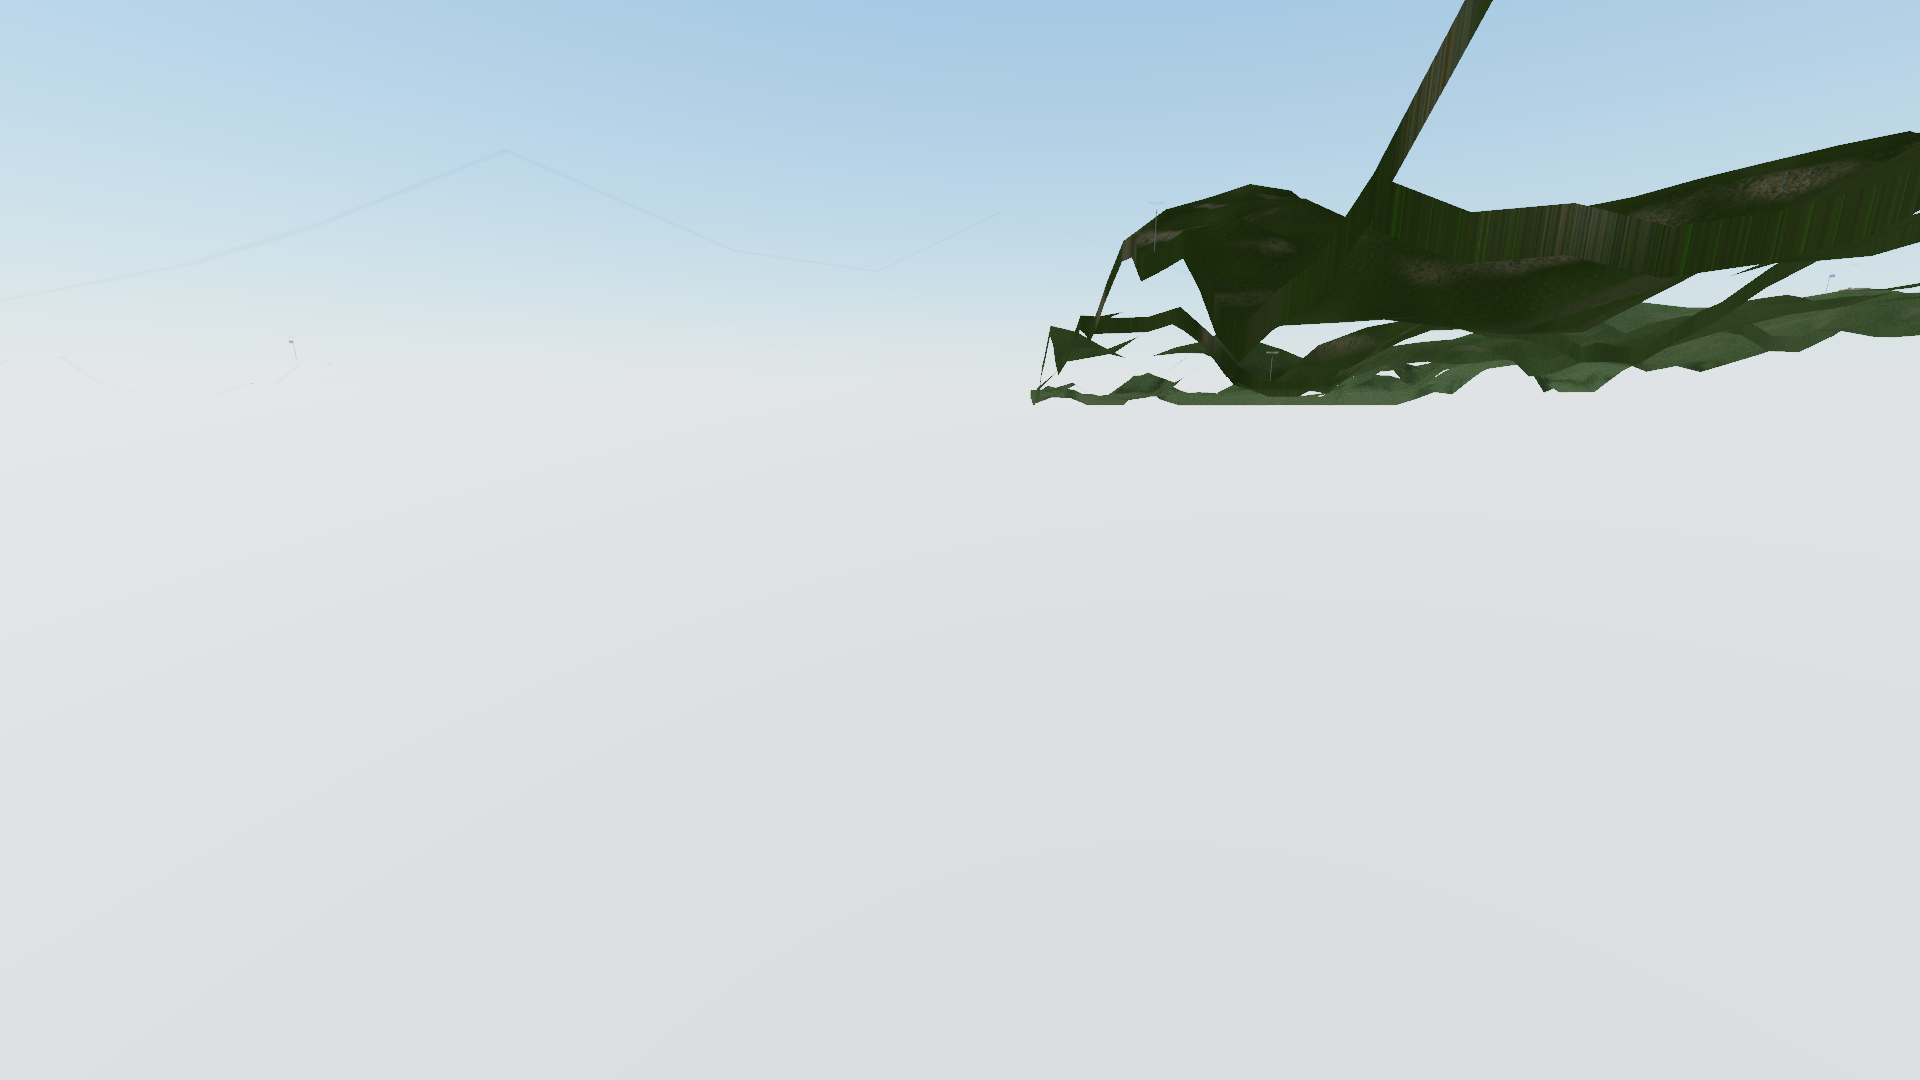
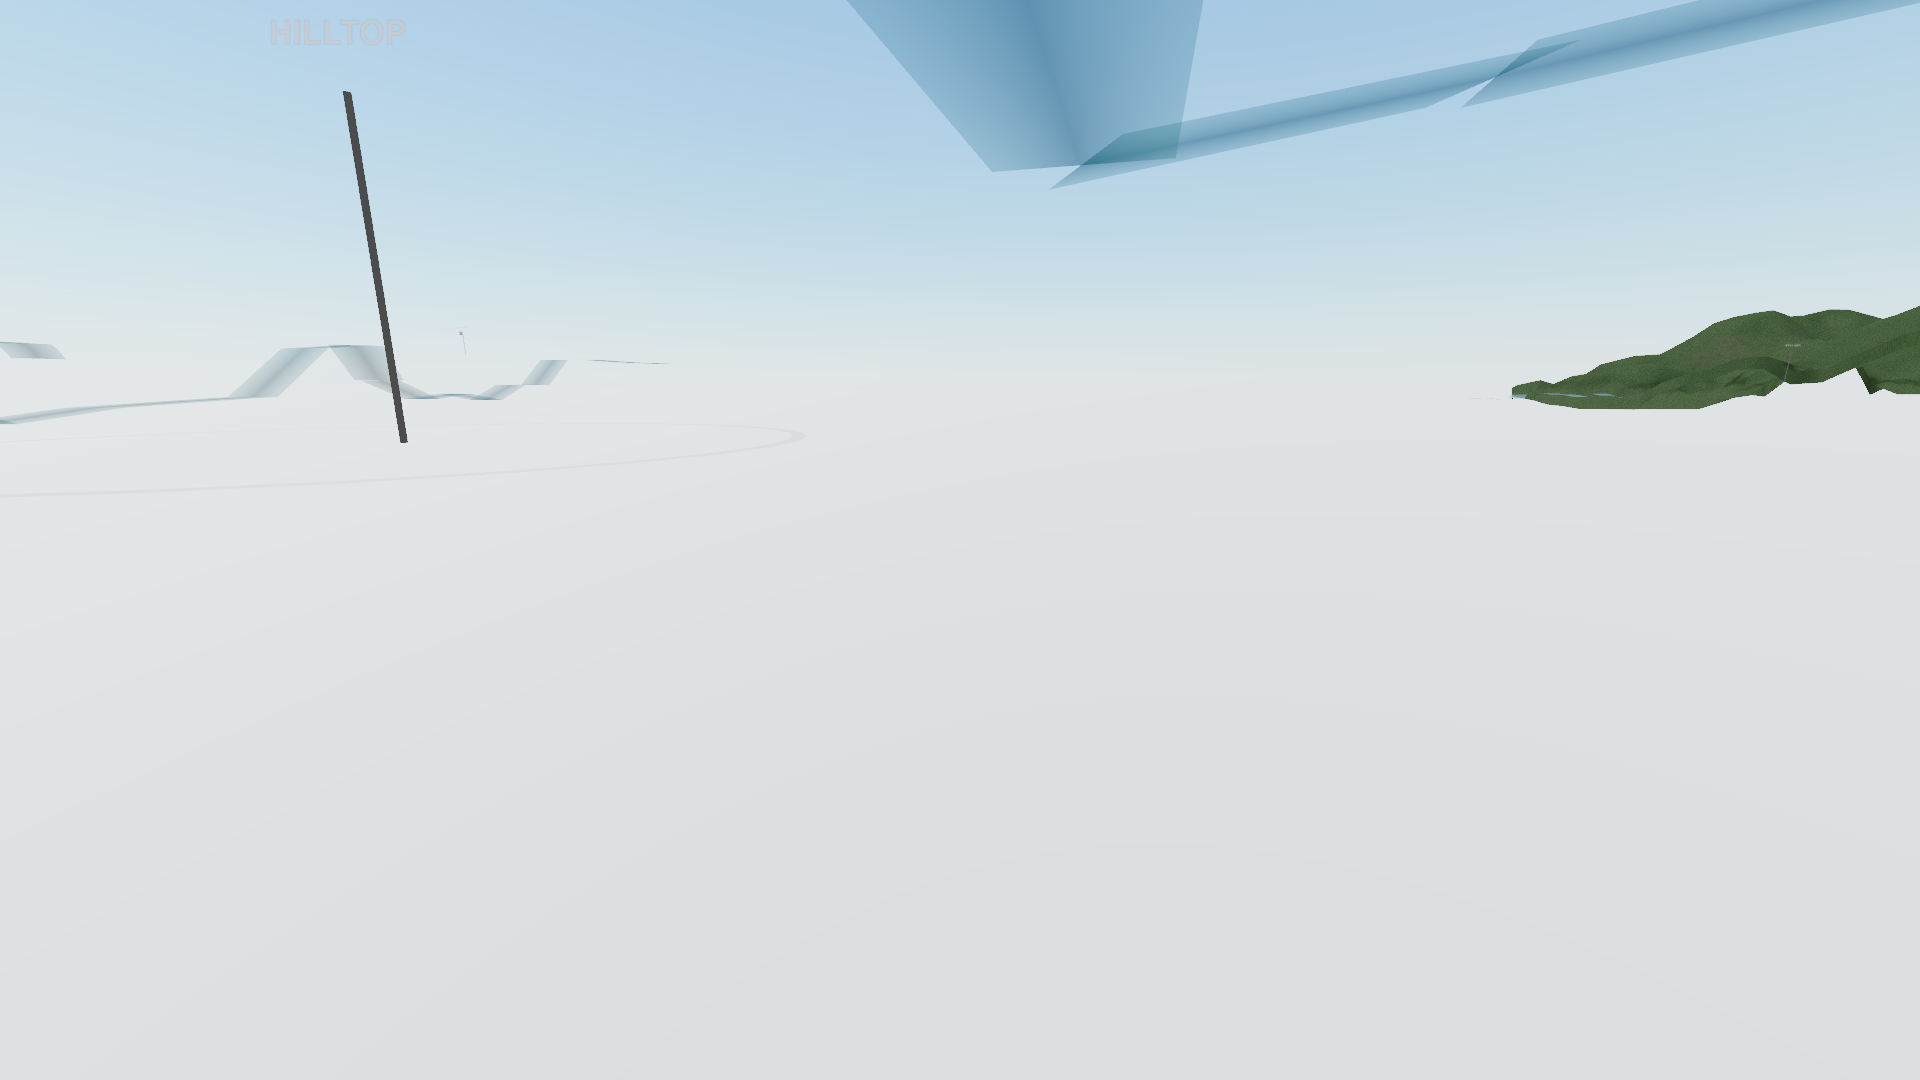
docs(water): close water-polish cycle + regen playtest evidence + align description/keywords for aircraft (water-polish-docs)
Final pre-split of (water-hydrology-polish). Companion to:
- water-polish-ui (#313, merged f69e119c)
- water-polish-core (#314, merged f375aa02)

Docs:
- CARRY_OVERS: VODA-OF-1 row gets the 2026-05-20 water-polish
  supersede note (hydrology river surfaces are now the accepted OF/A
  Shau water path; the global plane is opt-in only). Cycle ledger
  follow-up captured.
- state/CURRENT, ROADMAP, BACKLOG, PLAYTEST_PENDING: rolled forward
  to reflect the merged water-polish work (hydrology-driven river
  surfaces shipped to master, OF Sampan + PBR on visible water).
- rearch/KONVEYER_WEBGPU_STACK_RESEARCH_SPIKES_2026-05-11: amended
  with a water-surface-on-hydrology pointer.

Artifacts:
- cycle-of-river-surface-enable playtest evidence regenerated.
  Previous post-captures were stale (taken before #286/#291 merged,
  so riverSurface.visible was false in summary-of-water-post.json).
  Regenerated captures now show visible: true, source: "hydrology"
  for Sampan + PBR + river-segment poses. Closes the deferred-
  playtest follow-up gate on VODA-OF-1.

package.json:
- description rewritten to include helicopters (UH-1 Huey, AH-1
  Cobra) and fixed-wing aircraft (A-1 Skyraider, F-4 Phantom,
  AC-47 Spooky), matching the README Highlights line that has
  always called this out as combined-arms.
- keywords gain aviation, helicopters, fixed-wing, vehicles for
  npm / GitHub discovery.

diff --git a/docs/state/CURRENT.md b/docs/state/CURRENT.md
@@ -385,17 +385,26 @@ flat terrain/data boundaries, and cloud texture resolution, blocky puffs,
 weather layering, cloud shadows/occlusion, and possible Pixel Forge or authored
 weather assets remain open for the next atmosphere pass.
 
-The KONVEYER water/hydrology review has begun as a bridge into VODA rather
-than as a closure claim. `npm run check:hydrology-bakes` passes. Source audit
-`artifacts/perf/2026-05-11T21-33-05-844Z/projekt-143-water-system-audit/water-system-audit.json`
-records current wiring as WARN because the shader/art/consumer work is still
-unfinished. Runtime proof
-`artifacts/perf/2026-05-11T21-33-31-662Z/projekt-143-water-runtime-proof/water-runtime-proof.json`
+The water/hydrology contract was corrected on 2026-05-21 after visual review
+showed that "visible strips" and the old global sea-level plane were misleading
+acceptance targets. Current river-bearing modes use hydrology river surfaces;
+the legacy global plane is opt-in only and disabled in Open Frontier and A
+Shau. Runtime terrain startup now adds hydrology riverbed flatten stamps and
+vegetation exclusion zones so water sits in a carved bed instead of over
+unchanged jungle ground. The shared river path now profiles noisy terrain
+samples into a continuous downstream grade before both terrain stamps and the
+water ribbon consume it, removing the Open Frontier stepped-water artifact
+found in the first visual pass. `npm run check:hydrology-bakes` passes, and
+runtime proof
+`artifacts/perf/2026-05-21T00-27-21-410Z/projekt-143-water-runtime-proof/water-runtime-proof.json`
 passes in Open Frontier and A Shau: hydrology river meshes are present,
 channel queries resolve, and `WaterSystem.sampleWaterInteraction` reports
-hydrology-backed `depth`, `immersion01`, and `buoyancyScalar` samples. Visual
-acceptance is still open; the proof screenshots show Open Frontier washed out
-around isolated river strips and A Shau still very dark/matte.
+hydrology-backed samples. Visual acceptance is improved but not final art:
+the browser proof and
+`artifacts/water-hydrology-polish/2026-05-21T00-18-53-086Z/loaded-terrain-visual/`
+show river-scale channels, loaded-terrain camera placement, map water overlays,
+and boat discoverability, while human game-feel acceptance, shoreline fine art,
+and a future WebGPU/TSL water material remain next polish work.
 
 Visual review also identified the `tall-grass.webp` source tile as too bright
 and saturated for the Vietnam jungle palette. Candidate local palette artifacts

diff --git a/docs/rearch/KONVEYER_WEBGPU_STACK_RESEARCH_SPIKES_2026-05-11.md b/docs/rearch/KONVEYER_WEBGPU_STACK_RESEARCH_SPIKES_2026-05-11.md
@@ -399,6 +399,25 @@ Recommended next water spike:
   material plus terrain-intersection proof, followed by one gameplay consumer
   of the interaction sample.
 
[phone redacted] correction:
+
+- Current river-bearing modes no longer use the legacy global sea-level plane
+  as an accepted water path. Open Frontier and A Shau disable it and render
+  hydrology river surfaces only.
+- Hydrology river geometry now derives width from accumulation, uses a
+  smoothed multi-band cross-section, publishes flow-speed query segments, and
+  contributes riverbed terrain stamps plus vegetation exclusion zones at mode
+  startup. A downstream elevation profile is applied before the water ribbon
+  and terrain stamps consume the path, so noisy terrain samples no longer
+  render as stepped river plates.
+- `npm run check:water-runtime -- --headless` passes against
+  `artifacts/perf/2026-05-21T00-27-21-410Z/projekt-143-water-runtime-proof/`.
+  Visual evidence under
+  `artifacts/water-hydrology-polish/2026-05-21T00-18-53-086Z/loaded-terrain-visual/`
+  shows loaded-terrain player, oblique, and map passes for Open Frontier and A
+  Shau, while human game-feel acceptance, shoreline fine art, and a WebGPU/TSL
+  premium water material remain open.
+
 ## What This Opens
 
 - Compute-assisted culling and visibility work, once evidence proves the CPU

diff --git a/docs/ROADMAP.md b/docs/ROADMAP.md
@@ -57,10 +57,12 @@ another pre-release scope expansion.
 
 Carry these findings into the next Projekt revamp:
 
-- Water and hydrology: keep the hydrology corridor/bake work and the
-  `WaterSystem` query/interaction contract, but treat natural river/lake
-  rendering, crossings, shader/intersection work, swimming/buoyancy consumers,
-  and watercraft-grade physics as future terrain-engine work.
+- Water and hydrology: keep the hydrology corridor/bake work, hydrology river
+  surfaces, riverbed terrain stamps, map/boat discoverability, and the
+  `WaterSystem` query/interaction contract. The legacy global water plane is
+  only an opt-in fallback; natural WebGPU/TSL river rendering, crossings,
+  shoreline polish, and watercraft-grade physics remain future terrain-engine
+  work.
 - Vegetation ecology: use the short-palm retirement, bamboo/ground-cover
   distribution audits, and Pixel Forge candidate proofs as starting evidence
   for clustered jungle, hydrology-aware palms/understory, trail edges, and grass
@@ -97,7 +99,7 @@ Carry these findings into the next Projekt revamp:
 | 2: Asset Integration | MOSTLY DONE | Weapons (7/9), helicopters (3/3), animals (6/6), structures integrated. Fixed-wing runtime is live; ground vehicles remain static only. |
 | 3: Vehicle Controls | PARTIAL | 3 flyable helicopters plus 3 flyable fixed-wing aircraft with live HUD/control runtime. Fixed-wing feel/interpolation sign-off, NPC transport, ground vehicles, and aircraft combat integration remain. |
 | 4: Squad Command | PARTIAL | Single coordinator + Z-key overlay live. Map-first command mode live. Gamepad parity, scale adapters deferred. |
-| 5: Terrain Engine | PARTIAL | CDLOD rewrite live. Biome classifier and vegetation scattering live. A Shau DEM delivery is manifest-backed locally; static-tiled nav and route/NPC quality still need play-path validation. Water has a legacy global plane plus hydrology channel surfaces and query/interaction samples; shader/intersection acceptance and watercraft-grade physics are not started. |
+| 5: Terrain Engine | PARTIAL | CDLOD rewrite live. Biome classifier and vegetation scattering live. A Shau DEM delivery is manifest-backed locally; static-tiled nav and route/NPC quality still need play-path validation. Water now uses hydrology river surfaces with terrain riverbed stamps, query/interaction samples, and map/boat discoverability; the legacy global plane is opt-in fallback only. Final WebGPU/TSL water material, shoreline polish, and watercraft-grade physics remain open. |
 | 6: Ground Vehicles | IN PROGRESS | M151 jeep physics MVP (VEKHIKL-1) queued via [docs/tasks/vekhikl-1-jeep-spike.md](tasks/archive/cycle-vekhikl-1-jeep-drivable/vekhikl-1-jeep-spike.md); architecture rearch memos in flight at `docs/rearch/GROUND_VEHICLE_PHYSICS_2026-05-13.md` (wheeled physics, Ackermann steering, ground-normal conform) and `docs/rearch/TANK_SYSTEMS_2026-05-13.md` (skid-steer, independent turret, gunner seat, ballistic cannon, damage states). Cars first, tanks second. GLBs exist (jeep, APC, truck, tank, PT-76); `IVehicle` already accepts `'ground'` and `src/systems/vehicle/GroundVehicle.ts` holds the M151 stub. |
 | 7: Combat Expansion | PARTIAL | Loadout system live (6 weapon slots, faction pools, presets). Stationary weapons, field pickup not started. |
 | 8: Fixed-Wing Air War | PARTIAL | Fixed-wing runtime is live in Open Frontier with phase-aware control law, airfield stands/runway helpers, NPC pilot support, and browser probes for takeoff/climb/orbit/handoff/approach. Cycle 2 must still resolve high-speed feel, altitude bounce/porpoise, camera/render smoothness, weapons, and broader combat loops. |
@@ -112,7 +114,8 @@ Carry these findings into the next Projekt revamp:
 - Ground vehicle physics (terrain-following, speed by surface type)
 - M151 Jeep, M113 APC, M35 Truck as first drivable ground vehicles
 - NPC helicopter transport (takeoff, fly to LZ, deploy squad, RTB)
-- Watercraft (sampan, PBR) blocked on water engine
+- Watercraft (sampan, PBR) have boarding/spawn integration; watercraft-grade
+  hydrodynamics and seat-swap combat polish remain open.
 
 ### Command & RTS
 - Command scaling: squad (8-16) -> platoon (30-60) -> company (100-200) -> battalion (500+)

diff --git a/docs/CARRY_OVERS.md b/docs/CARRY_OVERS.md
@@ -328,7 +328,9 @@ History log:
   `cycle-vekhikl-player-boarding-wire` wires the missing glue
   (opens+closes VEKHIKL-UX-2). Cycle #2
   `cycle-of-river-surface-enable` flips OF `waterEnabled: true` +
-  adds water-surface spawn snap for Sampan + PBR
+  adds water-surface spawn snap for Sampan + PBR; the 2026-05-20 water
+  polish pass later supersedes the global-plane assumption and makes
+  hydrology river surfaces the accepted OF/A Shau water path
   (opens+closes VODA-OF-1). Cycle #3
   `cycle-motor-pool-reflow-and-tank-dedup` reflows
   `motor_pool_heavy` placements and relocates the OF M48 scenario
@@ -381,7 +383,7 @@ History log:
 - DEFEKT-3 | Combat AI p99 — synchronous cover search in `AIStateEngage.initiateSquadSuppression` | closed in cycle-konveyer-11-spatial-grid-compute | **R1 spatial grid landed via 3 PRs**: [#220](https://github.com/matthew-kissinger/terror-in-the-jungle/pull/220) `9a02714a` (CoverSpatialGrid 282 LOC + 277 LOC tests, 8m cells, deterministic order, queryNearest + queryWithLOS), [#221](https://github.com/matthew-kissinger/terror-in-the-jungle/pull/221) `a5b5bcd6` (AIStateEngage routes flank-cover scan through structural `CoverGridQuery` interface; preserves 2-search cap + reuse; adds `engage.suppression.initiate.coverGridQuery` Phase F sub-marker + `suppressionFlankCoverGridHits/Misses` telemetry), [#222](https://github.com/matthew-kissinger/terror-in-the-jungle/pull/222) `8d12ede5` (L3 integration test `src/integration/combat/cover-grid-suppression.test.ts`, perf budget p99 ≤ 5ms with ~190x margin vs ~954ms baseline). Post-merge `combat120` capture at `8d12ede5`: avg_frame 15.54ms (PASS), peak_p99 34.40ms (+3.0% vs baseline 33.4ms, under 5% hard-stop), **combat_budget_dominance 0% (Combat never topped 16.67ms vs pre-R1 954ms peak)**, **hitch_100ms_percent 0% in 5939 frames (vs documented 954ms baseline)**. R2 GPU-compute prototype skipped per brief's skip condition — R1 wins meet ≥3x avg drop + ≥10x peak drop bars. Artifact: `artifacts/perf/2026-05-16T19-32-35-293Z/`.
 - DEFEKT-4 | NPC route-follow quality not signed off (slope-stuck, navmesh crowd disabled, terrain solver stalls) | closed in cycle-defekt-4-npc-route-quality | **3 PRs across R1/R2, all `terrain-nav-reviewer` APPROVE pre-merge**: R1 [#265](https://github.com/matthew-kissinger/terror-in-the-jungle/pull/265) `df84a870` npc-slope-stuck-recovery (new `SlopeStuckDetector.ts` + `evaluateSlopeStuckRecovery` in `CombatantMovement.ts`; `SLOPE_STALL_TIME_MS=1500` triggers recovery via `SLOPE_SLIDE_STRENGTH=8.0` gravity slide downhill until on walkable slope, then re-acquires pathing target; behavior test verifies steep-slope recovery transition within budget), [#266](https://github.com/matthew-kissinger/terror-in-the-jungle/pull/266) `aac0e519` navmesh-crowd-reenable (re-enabled Recast crowd as layered direction-only consumer via `applyAgentSteeredDirection`; `MAX_CROWD_AGENTS=64`; high-LOD gated; original disable was structural unregister-every-tick at commit `7487b693`, not a flag; perf inside ≤2 ms additional per nav step budget). R2 [#267](https://github.com/matthew-kissinger/terror-in-the-jungle/pull/267) `4f505661` terrain-solver-stall-fix (wall-clock accumulator on `(contourActivated && lowProgress)` crossing `NPC_CONTOUR_STALL_REROUTE_MS=1200`; high-LOD only; backtrack-suppressed via `movementBacktrackPoint` not intent; drops cached navmesh path so next tick re-queries; helper `evaluateTerrainStallReroute` in `CombatantMovement.ts`; new optional `Combatant.movementContourStallMs` field; A Shau valley traversal without stop-and-go verified by behavior test). Active count: 8 → 7. No fence change.
 - VEKHIKL-UX-2 | Player F-key boarding never wired — all five drivable vehicles (M151, M48, Sampan, PBR, M2HB) unenterable despite 2026-05-19 wayfinding cycle shipping the "Press F to board" HUD prompt | opened+closed in cycle-vekhikl-player-boarding-wire (zero-cycle) | **8 PRs across R1 (with split) + R2**: [#288](https://github.com/matthew-kissinger/terror-in-the-jungle/pull/288) ground-adapter wire (M151), [#289](https://github.com/matthew-kissinger/terror-in-the-jungle/pull/289) tank-adapter wire (M48 pilot seat), [#293](https://github.com/matthew-kissinger/terror-in-the-jungle/pull/293) input-router with mortar fallback (retry; original cycle #1 R1 task #3 terminated mid-thought; "no-vehicle-in-6m → onMortarFire" path is the load-bearing fallback), [#296](https://github.com/matthew-kissinger/terror-in-the-jungle/pull/296) watercraft + emplacement wire (Sampan + PBR + M2HB), [#297](https://github.com/matthew-kissinger/terror-in-the-jungle/pull/297) factory-module-only (split A retry; split out of the original controller-factory task to fit executor context budget), [#298](https://github.com/matthew-kissinger/terror-in-the-jungle/pull/298) handler + composer wire (split B retry), [#299](https://github.com/matthew-kissinger/terror-in-the-jungle/pull/299) SystemUpdater wire (proximity checker registration for live game loop), [#300](https://github.com/matthew-kissinger/terror-in-the-jungle/pull/300) L3 cross-category integration test (7/7 assertions, real factory + proximity checker + session controller against all 5 categories, zero stubs at unit-under-test layer) + playtest evidence (`docs/playtests/cycle-vekhikl-player-boarding-wire.md` + 15-shot capture script + PLAYTEST_PENDING row). Mortar fire stays on F via the fallback router (regression sentinel). Pilot seat only — M48 + PBR gunner swaps deferred to `cycle-vekhikl-seat-swaps` hold list. Cycle #1 R1 mid-cycle hard-stop (3 of 5 executors terminated at ≥90k tokens) handled via tighter-prompt re-dispatch + task split; flagged in [docs/FRAMEWORK_RECOVERY_PLAN_2026-05-20.md](FRAMEWORK_RECOVERY_PLAN_2026-05-20.md). Active count: 6 → 6 (zero-cycle).
-- VODA-OF-1 | Open Frontier hydrology river surface not rendered (`waterEnabled: false` on `OpenFrontierConfig`); OF Sampan + PBR sit on dry terrain | opened+closed in cycle-of-river-surface-enable (zero-cycle) | **4 PRs across R1 + R2**: [#286](https://github.com/matthew-kissinger/terror-in-the-jungle/pull/286) `of-water-config-flip` flipped `waterEnabled: true` on `OpenFrontierConfig.ts` (mandatory `terrain-nav-reviewer` APPROVE — kept global sea-level plane enabled because OF terrain centers near y=0, unlike A Shau which disabled the global plane at +580 m valley floor), [#291](https://github.com/matthew-kissinger/terror-in-the-jungle/pull/291) `of-water-spawn-snap-resolver` snapped OF Sampan + PBR spawns to the water-surface Y at scenario load (handles Sampan + PBR independently because watercraft physics expects the hull to start on the surface, not 0 m above), [#292](https://github.com/matthew-kissinger/terror-in-the-jungle/pull/292) `of-water-capture-pair` Playwright pre/post capture (post-captures stale at write time — captured before #286/#291 merged so `riverSurface.visible: false` in post snapshots; regeneration flagged as deferred-playtest follow-up gate), [#294](https://github.com/matthew-kissinger/terror-in-the-jungle/pull/294) `of-water-playtest-evidence` (memo + PLAYTEST_PENDING row noting the post-capture regen gate). Active count: 6 → 6 (zero-cycle).
+- VODA-OF-1 | Open Frontier hydrology river surface not rendered (`waterEnabled: false` on `OpenFrontierConfig`); OF Sampan + PBR sit on dry terrain | opened+closed in cycle-of-river-surface-enable (zero-cycle) | **4 PRs across R1 + R2**: [#286](https://github.com/matthew-kissinger/terror-in-the-jungle/pull/286) `of-water-config-flip` flipped `waterEnabled: true` on `OpenFrontierConfig.ts` (mandatory `terrain-nav-reviewer` APPROVE; the old global sea-level plane assumption is superseded by the 2026-05-20 water polish pass, which makes hydrology river surfaces the accepted OF/A Shau water path and leaves the global plane opt-in only), [#291](https://github.com/matthew-kissinger/terror-in-the-jungle/pull/291) `of-water-spawn-snap-resolver` snapped OF Sampan + PBR spawns to the water-surface Y at scenario load (handles Sampan + PBR independently because watercraft physics expects the hull to start on the surface, not 0 m above), [#292](https://github.com/matthew-kissinger/terror-in-the-jungle/pull/292) `of-water-capture-pair` Playwright pre/post capture (post-captures stale at write time — captured before #286/#291 merged so `riverSurface.visible: false` in post snapshots; regeneration flagged as deferred-playtest follow-up gate), [#294](https://github.com/matthew-kissinger/terror-in-the-jungle/pull/294) `of-water-playtest-evidence` (memo + PLAYTEST_PENDING row noting the post-capture regen gate). Active count: 6 → 6 (zero-cycle).
 - VEKHIKL-LAYOUT-1 | OF motor pool clutter + OF M48 duplicate (real Tank IVehicle spawned at West FOB while dressing M48 mesh sat at the motor pool — two M48 silhouettes; vehicles overlapped < 1 m with no yaw spread) | opened+closed in cycle-motor-pool-reflow-and-tank-dedup (zero-cycle) | **3 PRs across R1 + R2**: [#287](https://github.com/matthew-kissinger/terror-in-the-jungle/pull/287) `of-tank-relocate-to-motor-pool` moved the real M48 Tank IVehicle scenario spawn from West FOB `(-1025, 0, -760)` to the motor pool bay `(183, 0, -1173)`; removed the dressing M48 mesh from the prefab (one M48 silhouette OF-wide), [#290](https://github.com/matthew-kissinger/terror-in-the-jungle/pull/290) `motor-pool-heavy-reflow` reflowed the four ground vehicles into staggered bays (z ∈ [8, 18], yaw 72° spread π × 0.3 → 0.7, ≥1.5 m bounding-box clearance) — **user-approved scope expansion**: the OF reflow's M48 bay sat outside A Shau's 34 m footprint, so the shared `motor_pool_heavy` prefab was split into `motor_pool_heavy_of` + `motor_pool_heavy_ashau` with side-effect updates in `gameModeTypes.ts` + `scripts/check-terrain-visual.ts` for the new prefab IDs (A Shau half preserves the cycle-vekhikl-3-shipped layout byte-for-byte), [#295](https://github.com/matthew-kissinger/terror-in-the-jungle/pull/295) `motor-pool-and-tank-dedup-playtest-evidence` (5-shot capture script with `--pair-tag=<pre|post>` flag, memo + PLAYTEST_PENDING row). Cycle-retro item: prefab-ID additions ripple to `gameModeTypes.ts` + `scripts/check-terrain-visual.ts` in any future prefab-split cycle. Active count: 6 → 6 (zero-cycle).
 
 ## Reading the table

diff --git a/docs/BACKLOG.md b/docs/BACKLOG.md
@@ -121,7 +121,7 @@ Pass 2 (framework trim).
 Closes `VODA-OF-1` (zero-cycle carry-over). 3 R1 + 1 R2; landed as
 4 PRs. Mandatory `terrain-nav-reviewer` APPROVE on the config flip PR.
 
-- [#286](https://github.com/matthew-kissinger/terror-in-the-jungle/pull/286) `3312d0f6` `of-water-config-flip` — Flipped `waterEnabled: true` on `OpenFrontierConfig.ts`; kept the global sea-level plane enabled (`globalWaterPlaneEnabled: true` by inheritance, intentional because OF terrain centers near y=0, unlike A Shau which disabled it at +580 m valley floor). `terrain-nav-reviewer` APPROVE.
+- [#286](https://github.com/matthew-kissinger/terror-in-the-jungle/pull/286) `3312d0f6` `of-water-config-flip` — Flipped `waterEnabled: true` on `OpenFrontierConfig.ts`; the earlier "keep the global sea-level plane" assumption is superseded by the 2026-05-20 water polish pass, which disables the global plane for Open Frontier and treats accepted water as hydrology river surfaces only. `terrain-nav-reviewer` APPROVE.
 - [#291](https://github.com/matthew-kissinger/terror-in-the-jungle/pull/291) `0b28d689` `of-water-spawn-snap-resolver` — Snapped OF Sampan (`-200, 0, 100`) and PBR (`-880, 0, -760`) spawns to the water-surface Y at scenario load so the hulls start on the river surface, not 0 m above it. Watercraft physics expects the hull-on-surface initial state.
 - [#292](https://github.com/matthew-kissinger/terror-in-the-jungle/pull/292) `b78276cc` `of-water-capture-pair` — Playwright pre/post capture pair via new `scripts/capture-of-river-surface-shots.ts`. **Post captures stale at write time** (executor ran the post step before #286 + #291 merged, so committed `summary-of-water-post.json` records `riverSurface.visible: false` across all three records). Regeneration flagged as the load-bearing close gate in the playtest memo retro section.
 - [#294](https://github.com/matthew-kissinger/terror-in-the-jungle/pull/294) `f418443f` `of-water-playtest-evidence` — Playtest memo + PLAYTEST_PENDING row landed with the stale-post-capture regen gate explicitly called out.

diff --git a/docs/PLAYTEST_PENDING.md b/docs/PLAYTEST_PENDING.md
@@ -32,7 +32,7 @@ NOT reverted automatically.
 | `cycle-vehicle-wayfinding-and-prompts` | (this cycle's close commit) | Walk all five drivable vehicle types (M151, M48, Sampan, PBR, M2HB) on the scenario where each spawns (Open Frontier for M151+M48+M2HB; A Shau for Sampan+PBR): (1) approach within 6 m and confirm the HUD "Press F to board <vehicle>" prompt fires with the correct per-vehicle copy; (2) step out to ~12 m and confirm the prompt hides; (3) press F to enter and confirm the prompt hides on entry; (4) exit and confirm the prompt returns; (5) glance at the minimap and confirm the per-category glyph (ground / watercraft / emplacement) renders at the vehicle world position with the faction palette (US blue today; OPFOR red gated on the `cycle-vekhikl-5-fleet-expansion` follow-up); (6) open the M-key full map and confirm the same glyph at the same world position under the north-up projection; (7) confirm the compass rose paints a `G/W/E <dist>m` chevron for the nearest vehicle of each category (compass-wiring fix landed in commit 1 of this branch — without it the chevrons stay dark); (8) drive a jeep and confirm the minimap marker tracks; (9) destroy a vehicle (dev command) and confirm its marker drops. NOTE 2026-05-20: the (3) "press F to enter" step is known-broken on master — F is not wired to any boarding handler. This deferral row is informational only for that sub-step until `cycle-vekhikl-player-boarding-wire` of `campaign-2026-05-20-vehicle-boarding-and-water` lands. Full walk-list mirrored in `docs/playtests/cycle-vehicle-wayfinding-and-prompts.md` "Test plan". | `artifacts/cycle-vehicle-wayfinding-and-prompts/playtest-evidence/{m151,m48,sampan,pbr,m2hb}-{open_frontier,a_shau_valley}-{hud,minimap,fullmap,compass}.png` (20), plus `negative-far-no-prompt.png` + `negative-in-vehicle-no-prompt.png` (2 negative cases), plus `summary.json` with per-target `matchedVehicleId` + `surfaces.{hud,minimap,fullmap,compass}.{wrote,note}` and `resolvedBackend` (captured by `scripts/capture-vehicle-wayfinding-shots.ts`; HUD prompt + minimap marker + full-map marker + compass chevron rendering each depend on the four R1 landings (PRs #278, #279, #280, #281) and the compass-wiring fix in commit 1 of this branch being in the build). | First in-world vehicle signposting cycle (closes `VEKHIKL-UX-1`). Owner sign-off blocks `VEKHIKL-UX-1` promotion to Closed in `docs/CARRY_OVERS.md`. Capture-script + doc skeleton landed under autonomous-loop posture; capture script tolerates absent `playerController.teleport`, absent `vehicleManager.spawnPlayerInNearestVehicle` dev surfaces, and absent prompt-text DOM probes — each capture reserves its screenshot path regardless. The `compass-vehicle-markers` R1 PR (#278) explicitly deferred the runtime wiring because its worktree was fenced to `src/ui/compass/**`; commit 1 of this branch lands the missing `StartupPlayerRuntimeComposer` wiring (`createCompassVehicleQuery` adapter over `VehicleManager.getAllVehicles()`) so the chevrons paint in the captured frames. |
 | `cycle-skylut-resolution-bump` | (this cycle's close commit) | Walk the LUT-bump pre/post diff pair on (1) Open Frontier noon (the "random dark spots" report) and (2) A Shau midday flyover (the "skybox edge through terrain" report). Confirm the post-bump shots are free of bin-boundary banding and that `bump-summary-post.json` shows `horizonRow.monotonicUnder4 === true` and `fogVsSky.passesUnder5Pct === true` on both records. Confirm `combat120` p99 inside ±0.5 ms vs cycle #12 close (LUT bake is off the hot path). Real mobile-device walk: Pixel 5 + iPhone 12 emulation hold within 10% of cycle #12 baselines (29.02 / 28.88 avgFps). Full walk-list mirrored in `docs/playtests/cycle-skylut-resolution-bump.md` "Test plan". | `artifacts/cycle-skylut-resolution-bump/playtest-evidence/pre-openfrontier-noon.png`, `pre-ashau-noon.png`, `post-openfrontier-noon.png`, `post-ashau-noon.png` plus `bump-summary-pre.json` + `bump-summary-post.json` (captured by `scripts/capture-sun-and-atmosphere-shots.ts --lut-bump-check --prefix=<pre\|post>`; pre-bump captures depend on checking out `master@be953420` for the baseline half, post-bump runs against the cycle head — back-fill on master post-merge if needed). | First sky LUT resolution bump (closes `KB-SKY-LUT-BANDING`, the zero-cycle visual-quality follow-up to `KB-SKY-DEEP`). Owner sign-off records cycle-close acceptance for the LUT-bump fix to the "Open Frontier midday dark spots" + "skybox edge through terrain" user-reported visual artifacts. Capture-script extension + doc skeleton landed under autonomous-loop posture; capture script tolerates absent WebGPU adapter in headless Chromium (resolves to `webgpu-webgl-fallback`) and writes per-capture LUT-bump assertion blocks (`horizonRow`, `fogVsSky`) to `bump-summary-<prefix>.json`. Cycle #12 follow-up flag (b) — per-preset `computeSunDirectionAtTime` elevation envelope sanity check — recorded as an observation in the playtest memo; not fixed in this cycle. |
 | `cycle-sun-and-atmosphere-overhaul` | (this cycle's close commit) | Walk the 5 scenarios × 4 TODs visual matrix (20 frames) + the 8 WebGPU/WebGL2 parity pair + the 5 night-red regression frames: (1) on each of ashau, openfrontier, tdm, zc, combat120 force `WorldBuilder.forceTimeOfDay` to the noon / golden / dusk / twilight slots and confirm the spike Section 4 visual targets (cobalt zenith at noon, mie-band stretching at golden, blood-orange dusk horizon, "keeper red" twilight vibe band with cool terrain lighting); (2) on a single scenario (openfrontier) repeat under `?renderer=webgl` and confirm visual parity to the human eye; (3) at midnight on each scenario confirm `renderer.moonLight.color` reads cool, NOT red-dominant; (4) A/B AGX vs ACES via the WorldBuilder console `toneMapping` field and record subjective preference; (5) walk a real mobile device against the steady-state perf-startup-mobile probe to confirm avgFps holds within 10% of cycle #2's baselines (Pixel 5 23.68, iPhone 12 28.30). Full walk-list mirrored in `docs/playtests/cycle-sun-and-atmosphere-overhaul.md` "Test plan". | `artifacts/cycle-sun-and-atmosphere-overhaul/playtest-evidence/visual-{ashau,openfrontier,tdm,zc,combat120}-{noon,golden,dusk,twilight}.png` (20), `parity-openfrontier-{noon,golden,dusk,twilight}-{webgpu,webgl}.png` (8), `nightred-{ashau,openfrontier,tdm,zc,combat120}-midnight.png` (5), plus `summary.json` with per-capture metadata + computed `parityDeltas[]` + `nightRedRegression[]` (captured by `scripts/capture-sun-and-atmosphere-shots.ts`; visual fidelity depends on sibling R1 PRs `night-red-fix` #270, `agx-tonemap-swap` #269, `tsl-preetham-fragment-port` #271 + R2 sibling PRs `sun-disc-and-aureole-tuning` and `per-scenario-exposure-recalibration` landing — back-fill on master post-merge if needed). | First sun + atmosphere overhaul (closes `KB-SKY-DEEP` and the HosekWilkieSkyBackend half of `konveyer-large-file-splits`). Owner sign-off records cycle-close acceptance for the visual-quality follow-up to the cycle #1 `KB-SKY-BLAND` close. Capture-script + doc skeleton landed under autonomous-loop posture; capture script tolerates absent `forceTimeOfDay` runtime override (falls back to direct `sunDirection` rotation for `combat120` which has no `todCycle`), absent WebGPU adapter in headless Chromium (resolves to `webgpu-webgl-fallback`), and absent `moonLight.color` surface (the night-red sampler returns null + records as a pass-skipped). Mobile real-device walk deferred to the owner sweep; emulation probes recorded in the PR body. |
-| `cycle-of-river-surface-enable` | (this cycle's close commit) | Walk OF water rendering: (1) navigate to Sampan spawn `(-200, 0, 100)` and confirm the boat sits on a visible hydrology river surface (not dry terrain); (2) navigate to PBR spawn `(-880, 0, -760)` and confirm same; (3) walk the river segment between the two boats and confirm the river ribbon is visible + flowing, no z-fighting at the shorelines, and the global sea-level plane still renders on distant shore terrain (`globalWaterPlaneEnabled: true` inherited, intentional on OF because terrain centers near y=0); (4) A Shau regression smoke (river surface at `(-6895, 0, 4835)` unchanged vs cycle 2026-05-19 baseline). Full walk-list mirrored in `docs/playtests/cycle-of-river-surface-enable.md` "Test plan". | `artifacts/cycle-of-river-surface-enable/playtest-evidence/of-{sampan-spawn,pbr-spawn,river-segment}-{pre,post}.png` (6) + `summary-of-water-{pre,post}.json` (captured by `scripts/capture-of-river-surface-shots.ts`; pre captures taken on master tip `d9b612f4`, post captures in PR #292 were generated BEFORE sibling R1 PRs #286 + #291 merged so the committed `summary-of-water-post.json` records `riverSurface.visible: false` across all three records — **post captures require regeneration on a fresh worktree off master tip after #286/#291 merged before the campaign closes**; cycle-retro item flagged in the playtest memo). | First OF river surface rendering cycle (closes `VODA-OF-1`). Owner sign-off blocks `VODA-OF-1` promotion to Closed in `docs/CARRY_OVERS.md`. Capture-script + doc skeleton landed under autonomous-loop posture; PR #292 capture pair OPEN at task-author time. Post-capture regen is the load-bearing close gate per the cycle retro section. |
+| `cycle-of-river-surface-enable` | (this cycle's close commit) | Superseded by the 2026-05-21 water polish pass. Walk OF water rendering at the current Sampan/PBR hydrology-channel spawns, confirm the boats sit on hydrology river surfaces, confirm the M-key map and minimap show cyan water plus boat markers, and confirm the legacy global sea-level plane is not part of accepted OF/A Shau river water. A Shau smoke: visible river-scale hydrology surface near the Sampan/PBR routes and no return to dry-dirt boats. | Current evidence: `artifacts/water-hydrology-polish/2026-05-21T00-18-53-086Z/loaded-terrain-visual/` plus runtime proof `artifacts/perf/2026-05-21T00-27-21-410Z/projekt-143-water-runtime-proof/water-runtime-proof.json`. Older `artifacts/cycle-of-river-surface-enable/playtest-evidence/` captures are historical/stale and should not be used as acceptance. | First OF river surface rendering cycle (closes `VODA-OF-1`), corrected by the hydrology-first polish pass. Owner sign-off should now judge hydrology river visibility, map/boat discoverability, and bank/material polish, not the old global-plane assumption. |
 | `cycle-ashau-edge-and-flow-tuning` | (this cycle's close commit) | Walk three A Shau visual fixes pre vs post: (1) north-edge flyover at altitude 1500 m heading north toward DEM boundary — confirm no vertical fins past the heightmap edge; the post-D3 taper ramps from boundary value to `DEM_EDGE_BASELINE_M = 0 m` over `DEM_EDGE_TAPER_RADIUS_M = 1500 m`; (2) valley-road wide shot on a hillside route corridor — confirm the route drapes over the slope rather than cutting a trench (slope-guard fires above 15 deg with 5 deg softness, flatten -> 0.0); (3) sampan spawn close-up at `(-6895, 0, 4835)` — confirm the boat sits on the hydrology river surface (not dry dirt); `waterEnabled: true` renders the hydrology mesh while `globalWaterPlaneEnabled: false` suppresses the sea-level plane; (4) NPC nav smoke across the once-flattened corridor (stuck-rate must not regress > 50%); (5) optional real-device mobile walk against cycle #12 baselines (Pixel 5 29.02 / iPhone 12 28.88 avgFps; ±10% gate). Full walk-list mirrored in `docs/playtests/cycle-ashau-edge-and-flow-tuning.md` "Test plan". | `artifacts/cycle-ashau-edge-and-flow-tuning/playtest-evidence/ashau-{north-edge-flyover,valley-road-wide,sampan-spawn-closeup}-{pre,post}.png` (6 = 3 pairs), plus `summary-<pair-tag>.json` with per-shot metadata + optional `mobileProbes[]` array (captured by `scripts/capture-ashau-edge-and-flow-shots.ts`; pre / post pairing driven by `--pair-tag=<pre|post>` flag run on `master@be953420` baseline vs post-merge tip; back-fill on master post-merge if needed). | First A Shau-specific edge + flow tuning cycle (closes `KB-DEM-EDGE-TAPER`; closes Stage D3 of cycle-2026-05-09-cdlod-edge-morph). Owner sign-off records cycle-close acceptance for the three R1 landings — `dem-edge-taper` (PR #275 + worker parity PR), `route-stamp-slope-guard` (PR #282), `ashau-water-enable` (PR #277 @ d0adbd9c). Capture-script + doc skeleton landed under autonomous-loop posture; script tolerates A Shau slow-stream (8 s settle) + absent WebGPU adapter in headless Chromium (resolves to `webgpu-webgl-fallback`). Three reviewer follow-up items captured in the playtest memo's "Cycle retro items" section (1: TerrainFlowCompiler `samplingRadius` not scaled by `flattenStrength`; 2: 4-tap slope sample directionally biased at DEM edges; 3: sampan coord `(-6895, 0, 4835)` brittle to hydrology bake regen). |
 | `cycle-vekhikl-player-boarding-wire` | (this cycle's close commit) | Walk player boarding for all five drivable vehicle types: (1) on Open Frontier, locate the M151 jeep near the motor pool — walk within ~3 m, confirm HUD shows "Press F to board M151 Jeep", press F (confirm third-person follow camera engages + prompt hides), drive 10 s with W (confirm Ackermann steering), press F again (confirm player ejects to the +X side of the chassis, not under it, and prompt returns inside 6 m); (2) repeat for the M48 Patton at the motor-pool bay (depends on cycle #3 dedup landing) — drive 10 s with W + A/D skid-steer; pilot seat only this cycle (gunner swap deferred to `cycle-vekhikl-seat-swaps` hold-list); (3) walk to the M2HB tripod at the OF US FOB, press F to mount, confirm first-person barrel-axis camera + LMB fire intent reaches the M2HB system (cycle vekhikl-2 wired slew + fire — this cycle proves the mount), press F to dismount; (4) on A Shau Valley, locate the Sampan at the riverbank — confirm HUD prompt, drive 10 s with W (low power profile by design), exit beside the hull (riverbank or in-water step both valid); (5) repeat for the PBR at the US river outpost — pilot seat only this cycle (gunner swap to M2HB twin mounts deferred to same hold-list cycle); (6) mortar fallback (load-bearing) — walk somewhere with no vehicle in 6 m proximity, press F, confirm mortar fires (router's "boarding declined → forward to onMortarFire" path; if mortar fire breaks that's a router-gate regression); board any vehicle and confirm F-while-seated triggers exit (not mortar fire). Full walk-list mirrored in `docs/playtests/cycle-vekhikl-player-boarding-wire.md` "What the owner should walk". | `artifacts/cycle-vekhikl-player-boarding-wire/playtest-evidence/{m151,m48,sampan,pbr,m2hb}-{open_frontier,a_shau_valley}-{pre-press,post-press,post-exit}.png` (15 = 5 vehicles × 3 frames each), plus `summary.json` with per-target `matchedVehicleId` + `frames.{pre-press,post-press,post-exit}.{wrote,note}` + `boardCallResult` (true/false/absent/error) + `exitCallResult` + `resolvedBackend` (captured by `scripts/capture-vekhikl-player-boarding-shots.ts`; boarding round-trip depends on the five R1 landings (PRs #293/#297/#298/#288/#289/#296) + the sibling `vekhikl-board-system-updater-wire` SystemUpdater wire being in the build for the proximity-checker to latch the prompted vehicle id under the live game loop). | First player-boarding wire-up across all five drivable vehicle types (closes `VEKHIKL-UX-2`). Owner sign-off blocks `VEKHIKL-UX-2` promotion to Closed in `docs/CARRY_OVERS.md`. Capture-script + doc skeleton landed under autonomous-loop posture; capture script tolerates absent `playerController.boardingFactory` surface (probes both the split B field and the legacy `tryBoardNearestVehicle` callback), absent `playerController.teleport`/`setPosition` dev surfaces, and missing vehicle spawns (no live match → still writes the three frame slots) — each capture reserves its filename regardless. PNG run deferred to owner walk-through invocation per the R2 budget-discipline note in the playtest memo (same pattern as PR #295 motor-pool captures). L3 cross-category integration test at `src/integration/vehicle/board-five-types.test.ts` exercises the real factory + proximity checker + session controller against all five categories and passes 7/7 assertions. M48 + PBR gunner-seat swaps are explicitly out of scope (`cycle-vekhikl-seat-swaps` hold-list cycle). |
 | `cycle-motor-pool-reflow-and-tank-dedup` | (this cycle's close commit) | Walk OF + A Shau motor-pool layout fixes pre vs post: (1) load Open Frontier, navigate to the airfield Main Motor Pool at `(155, 0, -1195)` — confirm four ground vehicles read as a working motor pool (staggered bays z ∈ [8, 18], yaw spread 72° from `π * 0.3` to `π * 0.7`, ≥ 1.5 m bounding-box clearance per pair); confirm AMMO/SUPPLY/FUEL crates flank the comms tower at x=-24 (no longer a second row behind vehicles); (2) confirm exactly ONE M48 silhouette at the OF motor pool (the real Tank IVehicle at `(183, 0, -1173)`) and zero M48s anywhere in the West FOB vicinity at `(-1025, 0, -760)` (pre-cycle-#3 the real Tank spawned there); (3) approach the motor-pool M48 within ~6 m and confirm "Press F to board M48 Patton" HUD prompt (depends on cycle #1 `cycle-vekhikl-player-boarding-wire` being on master; if not, note as cycle-sequencing observation, NOT a cycle-#3 defect); (4) load A Shau Valley, navigate to A Shau Main Motor Pool — confirm visually identical to pre-cycle-#3 (shared `motor_pool_heavy` was split into `motor_pool_heavy_of` + `motor_pool_heavy_ashau` because the OF reflow's M48 bay sat outside A Shau's 34 m footprint; A Shau half preserves the cycle-vekhikl-3-shipped layout); (5) minimap + M-key full-map sanity — confirm OF M48 glyph at motor pool world position (not at West FOB). Full walk-list mirrored in `docs/playtests/cycle-motor-pool-reflow-and-tank-dedup.md` "Test plan". | `artifacts/cycle-motor-pool-reflow-and-tank-dedup/playtest-evidence/of-motor-pool-{pre,post}.png` + `ashau-motor-pool-{pre,post}.png` (4 = 2 pairs) + `of-fob-no-tank.png` (single-state, post-only) + optional `of-motor-pool-tank-prompt.png` (`--include-prompt` flag, depends on cycle #1 boarding wire), plus `summary-<pair-tag>.json` with per-shot metadata (captured by `scripts/capture-motor-pool-shots.ts`; pre / post pairing driven by `--pair-tag=<pre|post>` flag run on `master@67969e60` baseline vs post-merge tip; A Shau anchor resolved at runtime via `worldFeatureSystem.getFeatures()` so the script tolerates minor reposition tweaks; capture PNGs deferred to owner walk-through invocation per the R2 budget-discipline note in the playtest memo). | First motor-pool layout + M48 dedup cycle (opens + closes `VEKHIKL-LAYOUT-1`). Owner sign-off records cycle-close acceptance for the two R1 landings — `of-tank-relocate-to-motor-pool` (PR #287, real M48 IVehicle to motor pool bay) + `motor-pool-heavy-reflow` (PR #290, prefab split with forced side-effects on `gameModeTypes.ts` + `scripts/check-terrain-visual.ts` for the new prefab IDs — user-approved scope expansion). Capture-script + doc skeleton landed under autonomous-loop posture; capture script tolerates A Shau anchor probe failure (logs to summary, skips the shot), headless Chromium WebGPU adapter absence (resolves to `webgpu-webgl-fallback`), and the cycle #1 boarding-wire dependency for the optional F-prompt close-up (capture still succeeds but the HUD panel is absent if cycle #1 not yet on master). One cycle-retro item recorded: prefab-ID additions ripple to `gameModeTypes.ts` + `scripts/check-terrain-visual.ts` in any future prefab-split cycle. |